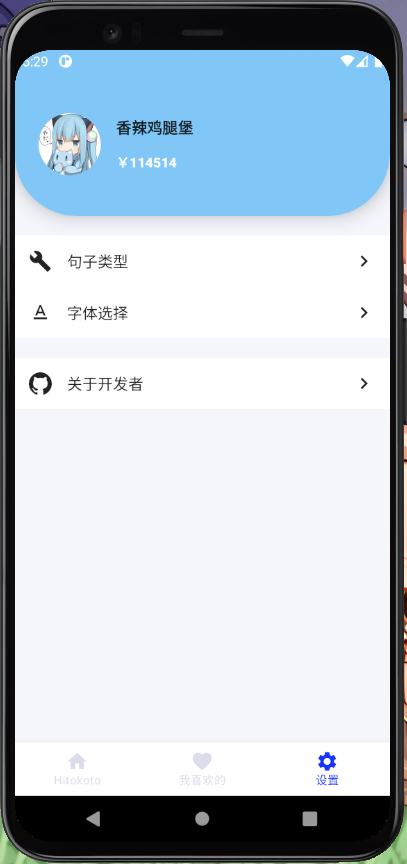
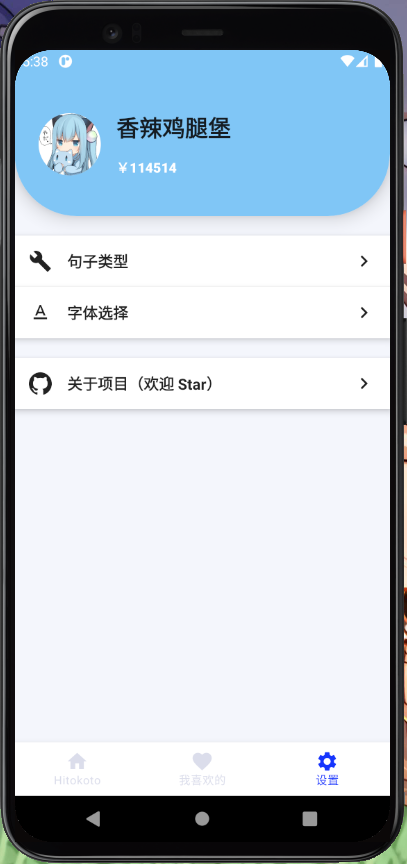
Redesign UI

diff --git a/app/src/main/java/com/compose/onetextbuilder/Setting.kt b/app/src/main/java/com/compose/onetextbuilder/Setting.kt
@@ -92,7 +92,7 @@ fun UserInfo(){
                 Text(
                     text = "香辣鸡腿堡",
                     fontWeight = FontWeight.W900,
-                    style = MaterialTheme.typography.subtitle1
+                    style = MaterialTheme.typography.h6
                 )
                 Spacer(modifier = Modifier.padding(vertical = 8.dp))
                 Text(
@@ -133,7 +133,7 @@ fun FontType(){
 
 @Composable
 fun About() {
-    ItemTemplate("关于开发者",R.drawable.github)
+    ItemTemplate("关于项目（欢迎 Star）",R.drawable.github)
 }
 
 @Composable
@@ -153,7 +153,8 @@ fun CardBackgroundStyle(content: @Composable()() -> Unit) {
         modifier = Modifier
             .fillMaxWidth()
             .wrapContentHeight(),
-        color = Color.White
+        color = Color.White,
+        elevation = 5.dp
     ) {
         content()
     }
@@ -173,7 +174,10 @@ fun ItemTemplate(
         ){
             Icon(painterResource(icon), null)
             TextSpacer()
-            Text(name)
+            Text(
+                text = name,
+                fontWeight = FontWeight.W700
+            )
             Column(
                 modifier = Modifier.fillMaxWidth(),
                 horizontalAlignment = Alignment.End
